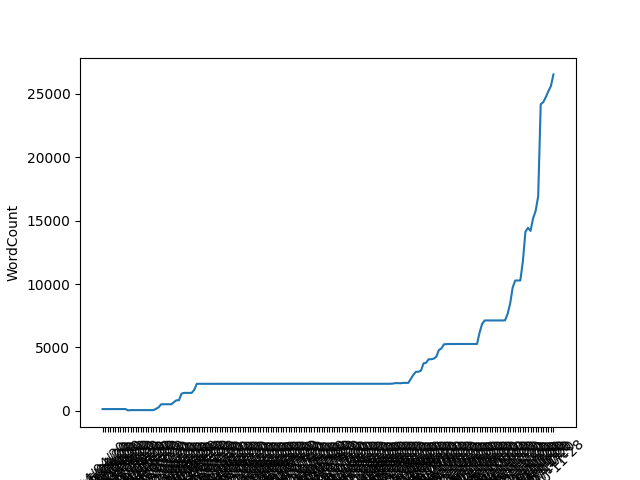
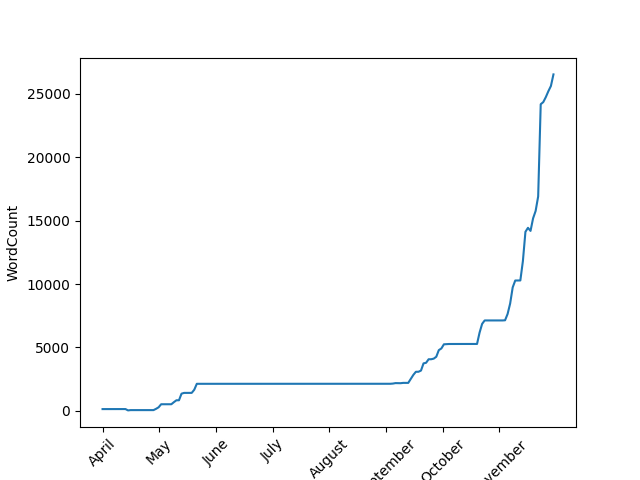
Daily data update

Changed region(s): [[0.125, 0.875, 0.9062, 1.0]]

diff --git a/plot_word_count.py b/plot_word_count.py
@@ -2,17 +2,24 @@ import pandas as pd
 import matplotlib.pyplot as plt
 import sys
 import os.path
+import numpy as np
 
 def usage():
     print("python plot_word_count.py DATA_FILE OUTPUT_FILE")
 
 def main(data_file, output_file):
     ds = pd.read_csv(data_file)
+    dates = pd.to_datetime( ds["Date"])
+    num_entries = len(dates)
+    months = dates.dt.month_name().unique()
+    num_months = len(months)
+    step = num_entries / num_months
+    ticks = np.arange(0, num_entries, step=step)
     x_axis=ds.axes[1][0]
     y_axis=ds.axes[1][1]
     plt.plot(ds[x_axis], ds[y_axis])
-    plt.xticks(rotation=45)
-    plt.xlabel(x_axis)
+    plt.xticks(ticks, months, rotation=45)
+    #plt.xlabel(x_axis)
     plt.ylabel(y_axis)
     plt.savefig(output_file)
 
